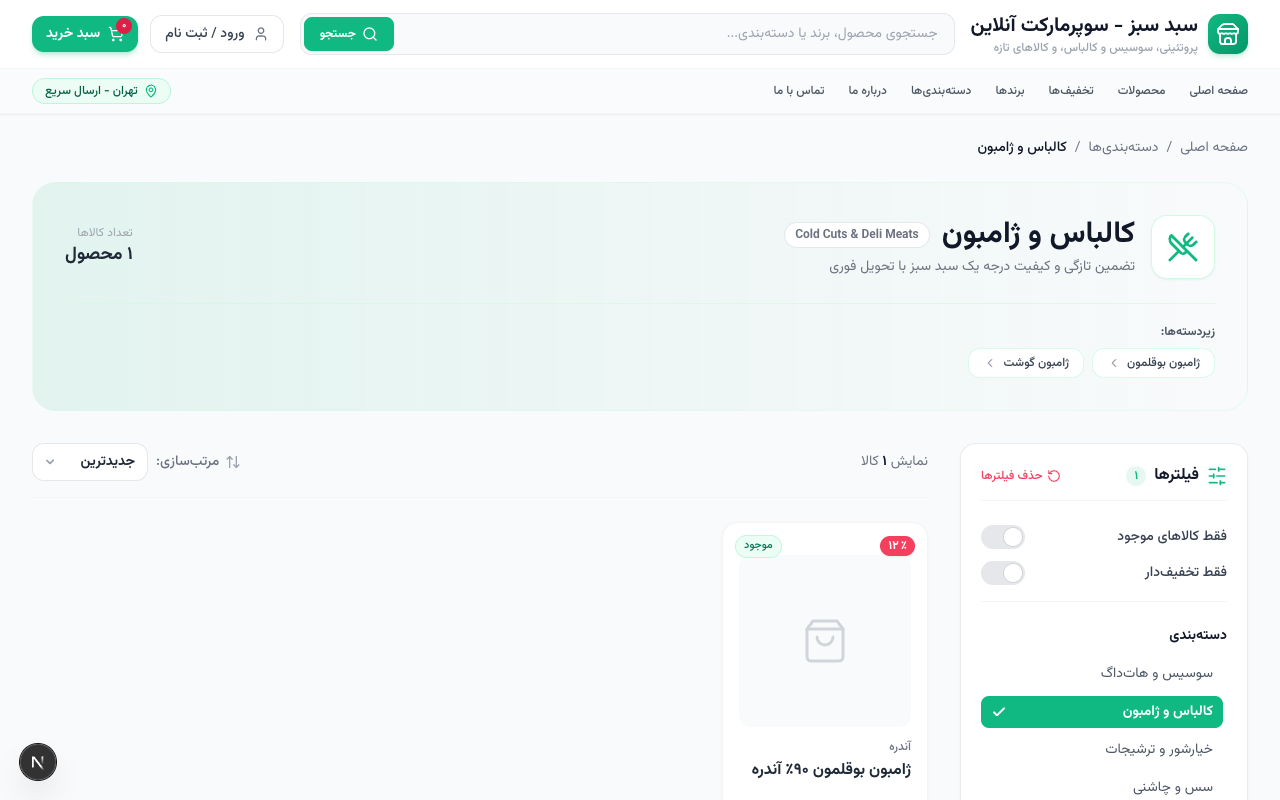
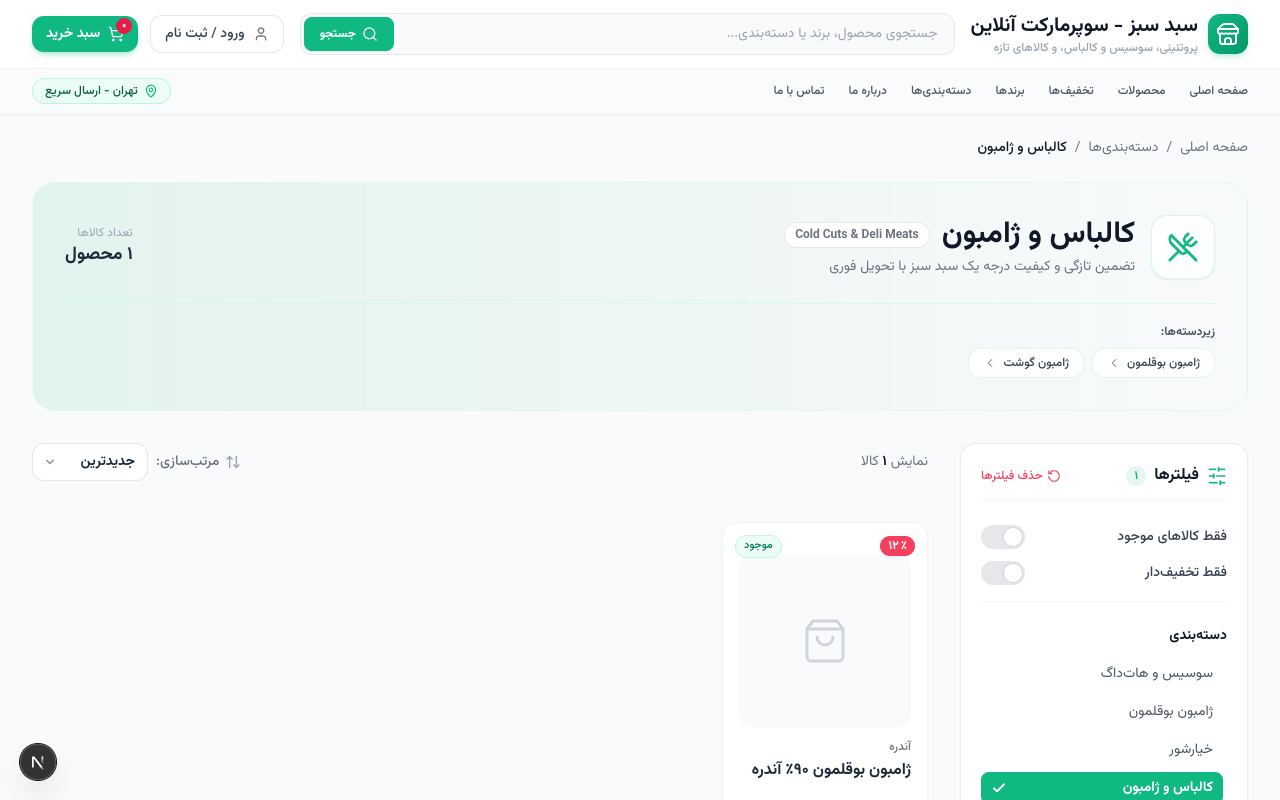
fix(shop): wire category filter selection and navigation in FilterSidebar

Changed region(s): [[0.75, 0.8438, 0.9688, 1.0]]

diff --git a/shop/src/app/category/[slug]/CategoryShowcaseContent.tsx b/shop/src/app/category/[slug]/CategoryShowcaseContent.tsx
@@ -2,6 +2,7 @@
 
 import React, { useState, useMemo, useEffect } from 'react';
 import Link from 'next/link';
+import { useRouter } from 'next/navigation';
 import {
   UtensilsCrossed,
   Flame,
@@ -24,7 +25,7 @@ import { ProductCard, ProductData as CatalogProduct } from '@/components/Product
 import { FilterSidebar, FilterState } from '@/components/FilterSidebar';
 import { SortDropdown, SortOptionKey } from '@/components/SortDropdown';
 import { toPersianDigits } from '@/lib/format';
-import type { CategoryDetail, BrandItem, ProductSummary } from '@/lib/serverCatalog';
+import type { CategoryDetail, CategoryItem, BrandItem, ProductSummary } from '@/lib/serverCatalog';
 import { api } from '@/lib/api';
 
 const categoryIconMap: Record<string, LucideIcon> = {
@@ -53,13 +54,16 @@ interface CategoryShowcaseContentProps {
   category: CategoryDetail;
   initialProducts?: ProductSummary[];
   brands?: BrandItem[];
+  categories?: CategoryItem[];
 }
 
 export default function CategoryShowcaseContent({
   category,
   initialProducts = [],
   brands = [],
+  categories = [],
 }: CategoryShowcaseContentProps) {
+  const router = useRouter();
   const [products, setProducts] = useState<ProductSummary[]>(initialProducts);
   const [sort, setSort] = useState<SortOptionKey>('newest');
   const [isMobileFilterOpen, setIsMobileFilterOpen] = useState(false);
@@ -113,6 +117,47 @@ export default function CategoryShowcaseContent({
     return Array.from(set);
   }, [brands, products]);
 
+  const sidebarCategories = useMemo(() => {
+    if (categories && categories.length > 0) {
+      return categories;
+    }
+    if (category.subcategories && category.subcategories.length > 0) {
+      return [category, ...category.subcategories];
+    }
+    return [category];
+  }, [categories, category]);
+
+  const handleFilterChange = (newFilters: FilterState) => {
+    if (newFilters.categoryId !== filters.categoryId) {
+      if (newFilters.categoryId) {
+        const target = sidebarCategories.find(
+          (c) =>
+            c.id === newFilters.categoryId ||
+            String(c.id) === String(newFilters.categoryId) ||
+            c.slug === newFilters.categoryId
+        );
+        if (target && target.slug !== category.slug) {
+          setIsMobileFilterOpen(false);
+          router.push(`/category/${target.slug}`);
+          return;
+        }
+      } else {
+        setIsMobileFilterOpen(false);
+        if (category.parentId) {
+          const parent = sidebarCategories.find((c) => c.id === category.parentId);
+          if (parent) {
+            router.push(`/category/${parent.slug}`);
+            return;
+          }
+        }
+        router.push('/categories');
+        return;
+      }
+    }
+
+    setFilters(newFilters);
+  };
+
   // Filtering and sorting
   const filteredAndSortedProducts = useMemo(() => {
     let result = [...products];
@@ -128,6 +173,22 @@ export default function CategoryShowcaseContent({
         (p) =>
           (p.discountPercent && p.discountPercent > 0) ||
           (p.compareAtPriceToman && p.compareAtPriceToman > p.priceToman)
+      );
+    }
+
+    // Filter: Category / Subcategory
+    if (
+      filters.categoryId !== null &&
+      filters.categoryId !== undefined &&
+      filters.categoryId !== category.id &&
+      String(filters.categoryId) !== String(category.id) &&
+      filters.categoryId !== category.slug
+    ) {
+      result = result.filter(
+        (p) =>
+          p.categoryId === filters.categoryId ||
+          String(p.categoryId) === String(filters.categoryId) ||
+          p.categorySlug === String(filters.categoryId)
       );
     }
 
@@ -162,7 +223,7 @@ export default function CategoryShowcaseContent({
     });
 
     return result;
-  }, [products, filters, sort]);
+  }, [products, filters, sort, category.id, category.slug]);
 
   const handleResetFilters = () => {
     setFilters({
@@ -179,6 +240,14 @@ export default function CategoryShowcaseContent({
   const hasActiveFilters =
     filters.inStockOnly ||
     filters.onSaleOnly ||
+    (filters.brands && filters.brands.length > 0) ||
+    (filters.categoryId !== null &&
+      filters.categoryId !== undefined &&
+      filters.categoryId !== category.id &&
+      String(filters.categoryId) !== String(category.id) &&
+      filters.categoryId !== category.slug) ||
+    filters.minPrice !== null ||
+    filters.maxPrice !== null;
     (filters.brands && filters.brands.length > 0) ||
     filters.minPrice !== null ||
     filters.maxPrice !== null;
@@ -280,9 +349,10 @@ export default function CategoryShowcaseContent({
         {/* Desktop Filter Sidebar */}
         <aside className="hidden lg:block w-72 shrink-0 sticky top-24">
           <FilterSidebar
+            categories={sidebarCategories}
             availableBrands={availableBrands}
             values={filters}
-            onChange={setFilters}
+            onChange={handleFilterChange}
             onReset={handleResetFilters}
           />
         </aside>
@@ -363,9 +433,10 @@ export default function CategoryShowcaseContent({
           />
           <div className="relative mr-auto w-full max-w-xs bg-white h-full shadow-2xl p-6 overflow-y-auto z-10 flex flex-col justify-between">
             <FilterSidebar
+              categories={sidebarCategories}
               availableBrands={availableBrands}
               values={filters}
-              onChange={setFilters}
+              onChange={handleFilterChange}
               onReset={handleResetFilters}
             />
             <button

diff --git a/shop/src/app/category/[slug]/CategoryPage.test.tsx b/shop/src/app/category/[slug]/CategoryPage.test.tsx
@@ -6,9 +6,11 @@ import { useCartStore } from '@/lib/cartStore';
 import * as serverCatalog from '@/lib/serverCatalog';
 import * as navigation from 'next/navigation';
 
+const mockPush = vi.fn();
+
 vi.mock('next/navigation', () => ({
   notFound: vi.fn(),
-  useRouter: () => ({ push: vi.fn(), replace: vi.fn() }),
+  useRouter: () => ({ push: mockPush, replace: vi.fn() }),
   usePathname: () => '/category/sausage-hotdog',
   useSearchParams: () => new URLSearchParams(),
 }));
@@ -17,6 +19,7 @@ vi.mock('@/lib/serverCatalog', () => ({
   fetchCategoryBySlug: vi.fn(),
   fetchCatalogProducts: vi.fn(),
   fetchBrands: vi.fn(),
+  fetchCategories: vi.fn(),
 }));
 
 describe('CategoryPage', () => {
@@ -94,7 +97,7 @@ describe('CategoryPage', () => {
     expect(screen.getByText(/تضمین تازگی و کیفیت درجه یک سبد سبز/i)).toBeInTheDocument();
 
     // Check subcategory pill
-    expect(screen.getByText('هاتداگ پنیری')).toBeInTheDocument();
+    expect(screen.getAllByText('هاتداگ پنیری').length).toBeGreaterThan(0);
 
     // Check products
     expect(screen.getByText('سوسیس کوکتل پنیر آندره')).toBeInTheDocument();
@@ -156,5 +159,32 @@ describe('CategoryPage', () => {
     });
 
     expect(navigation.notFound).toHaveBeenCalledTimes(1);
+  });
+
+  it('navigates when selecting another category in filter sidebar', async () => {
+    vi.mocked(serverCatalog.fetchCategoryBySlug).mockResolvedValue(mockCategory);
+    vi.mocked(serverCatalog.fetchBrands).mockResolvedValue([]);
+    vi.mocked(serverCatalog.fetchCategories).mockResolvedValue([
+      { id: 1, nameFa: 'سوسیس و هاتداگ', slug: 'sausage-hotdog' },
+      { id: 2, nameFa: 'کالباس و ژامبون', slug: 'cold-cuts-deli' },
+    ]);
+    vi.mocked(serverCatalog.fetchCatalogProducts).mockResolvedValue({
+      content: mockProducts,
+      totalElements: 2,
+      totalPages: 1,
+      page: 0,
+      size: 48,
+    });
+
+    const jsx = await CategoryPage({
+      params: Promise.resolve({ slug: 'sausage-hotdog' }),
+    });
+    render(jsx!);
+
+    const coldCutsBtn = screen.getByRole('button', { name: /کالباس و ژامبون/i });
+    expect(coldCutsBtn).toBeInTheDocument();
+
+    fireEvent.click(coldCutsBtn);
+    expect(mockPush).toHaveBeenCalledWith('/category/cold-cuts-deli');
   });
 });

diff --git a/shop/src/app/category/[slug]/page.tsx b/shop/src/app/category/[slug]/page.tsx
@@ -5,6 +5,7 @@ import {
   fetchCategoryBySlug,
   fetchCatalogProducts,
   fetchBrands,
+  fetchCategories,
 } from '@/lib/serverCatalog';
 import CategoryShowcaseContent from './CategoryShowcaseContent';
 
@@ -37,9 +38,10 @@ export async function generateMetadata({
 export default async function CategoryPage({ params }: CategoryPageProps) {
   const { slug } = await params;
 
-  const [category, brands] = await Promise.all([
+  const [category, brands, categories] = await Promise.all([
     fetchCategoryBySlug(slug),
     fetchBrands(),
+    fetchCategories(),
   ]);
 
   if (!category) {
@@ -57,6 +59,7 @@ export default async function CategoryPage({ params }: CategoryPageProps) {
       category={category}
       initialProducts={initialProducts.content}
       brands={brands}
+      categories={categories}
     />
   );
 }

diff --git a/shop/src/components/FilterSidebar.tsx b/shop/src/components/FilterSidebar.tsx
@@ -263,8 +263,8 @@ export const FilterSidebar: React.FC<FilterSidebarProps> = ({
                 values.categoryId !== undefined &&
                 (values.categoryId === catTarget ||
                   String(values.categoryId) === String(catTarget) ||
-                  (cat.id !== undefined && values.categoryId === cat.id) ||
-                  (cat.slug && values.categoryId === cat.slug));
+                  (cat.id !== undefined && String(values.categoryId) === String(cat.id)) ||
+                  (cat.slug && String(values.categoryId) === cat.slug));
 
               return (
                 <li key={catKey}>

diff --git a/shop/src/lib/serverCatalog.ts b/shop/src/lib/serverCatalog.ts
@@ -9,6 +9,7 @@ export interface ProductSummary {
   categoryId: number;
   categoryNameFa: string;
   categoryNameEn?: string;
+  categorySlug?: string;
   thumbnailUrl?: string;
   basePriceRials: number;
   priceToman: number;
